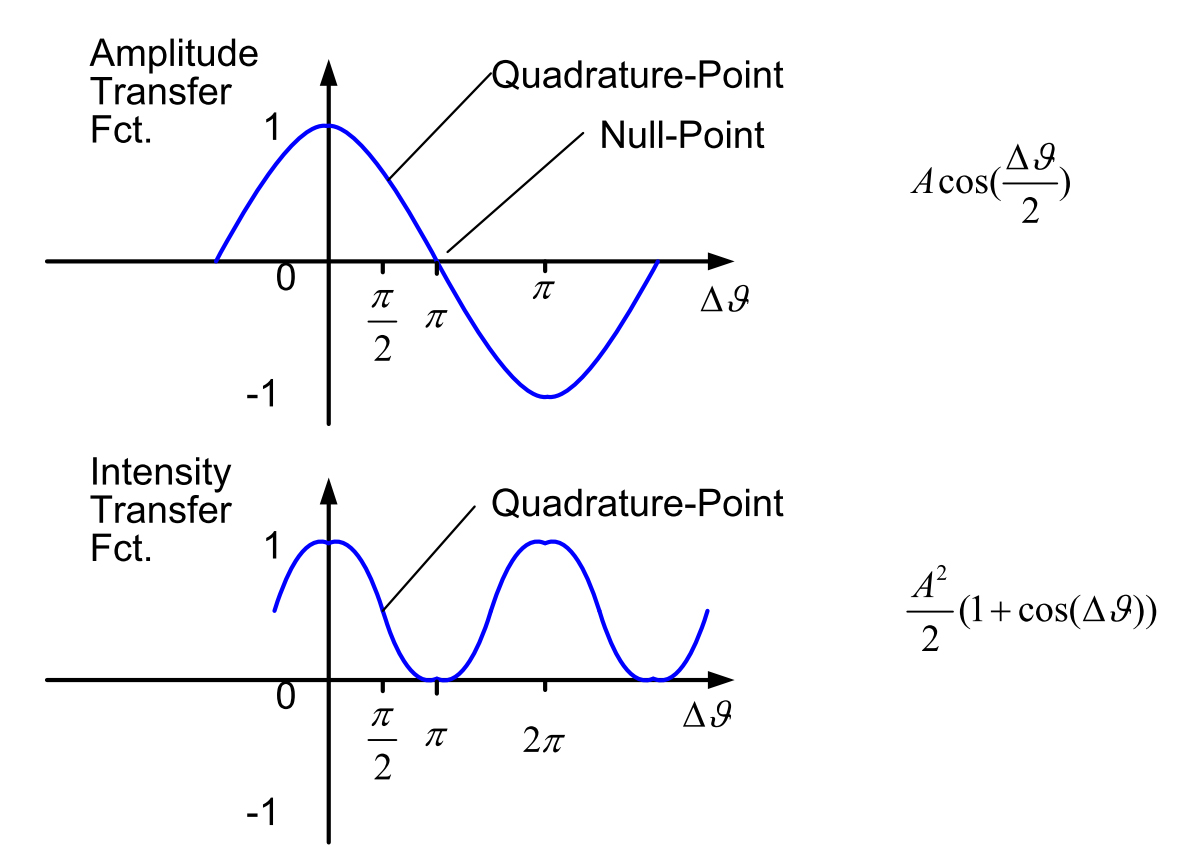
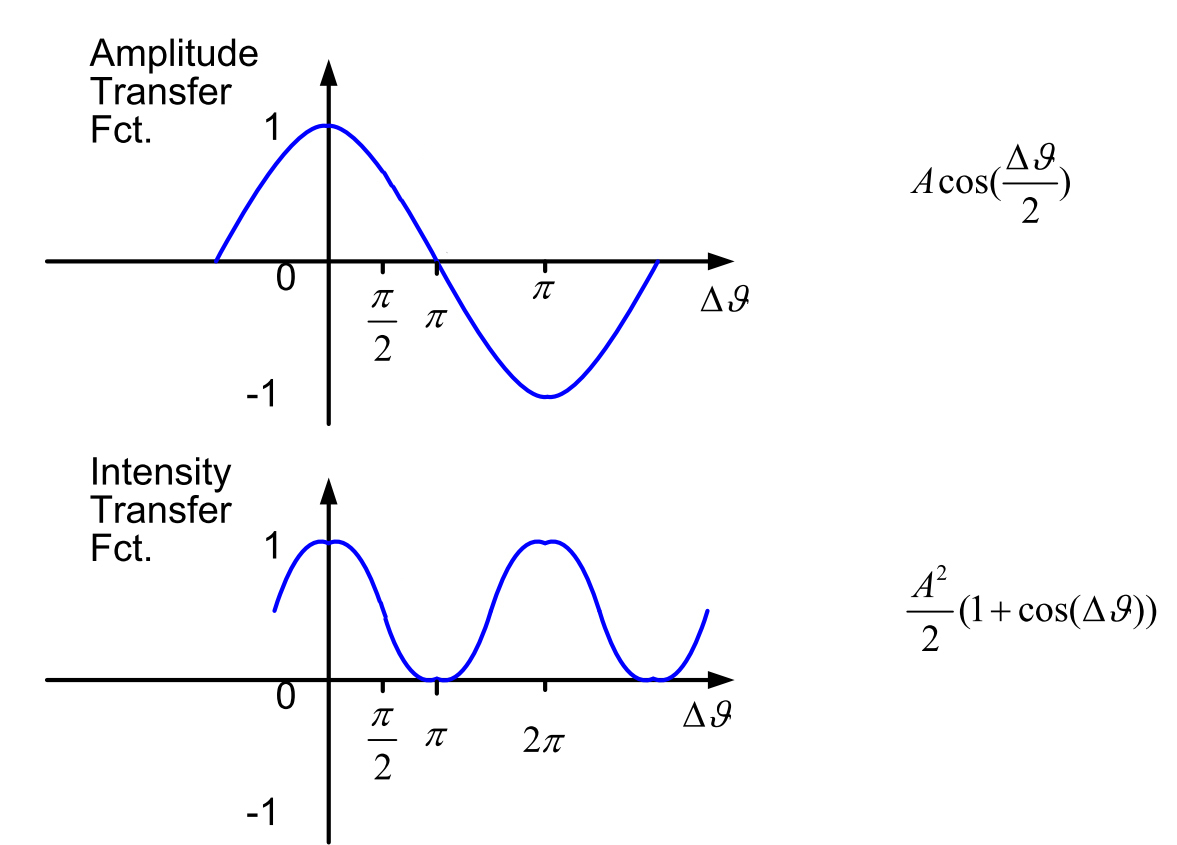
rz und so

diff --git a/OKT/Versuch 7/Ausarbeitung/content.tex b/OKT/Versuch 7/Ausarbeitung/content.tex
@@ -11,7 +11,7 @@ In a Mach-Zehnder Modulator (MZM) the light is split up in two branches. In each
 \begin{equation}
  E_{\mathrm{out}}=\exp\left(j\frac{\vartheta_1+\vartheta_2}{2}+j\frac{\vartheta_{\mathrm{Bias}}}{2} \right)\cdot\cos\left(\frac{\vartheta_1-\vartheta_2}{2}+\frac{\vartheta_{\mathrm{Bias}}}{2}\right)\cdot E_{\mathrm{in}} .
 \end{equation}
-The phase shift of the Signal at the output of the modulator is described by the first term, the amplitude by the second term. For the phase Modulation $\vartheta_1 = \vartheta_2$ only the phase of the Signal is changed while the Amplitude stays constant. This operation mode is called "`push-push"' mode. For $\vartheta_1 = -\vartheta_2$ only the Amplitude of the Signal is modulated. This operation mode is called "`push-pull"' mode. \todo{Null-point vs. quadrature point / alternativ die beschriftung aus der grafik entfernen} \footnote[1]{Leuthold, J. : Optical Communication Systems. WS 2010/2011}
+The phase shift of the Signal at the output of the modulator is described by the first term, the amplitude by the second term. For the phase Modulation $\vartheta_1 = \vartheta_2$ only the phase of the Signal is changed while the Amplitude stays constant. This operation mode is called "`push-push"' mode. For $\vartheta_1 = -\vartheta_2$ only the Amplitude of the Signal is modulated. This operation mode is called "`push-pull"' mode. \footnote[1]{Leuthold, J. : Optical Communication Systems. WS 2010/2011}
 
 
 \begin{figure}
@@ -55,4 +55,4 @@ A OOK-Signal for high-speed telecommunication systems is commonly created throug
 For the generation of a BPSK the same setup as for the OOK-Signal can be used. The MZM is also operated in the push-pull mode, but with twice the switching Voltage used for OOK modulation. \todo{noch die Bilder irgendwie} \footnotemark[1]
 
 \section{RZ Signal Generation}
-For the generation of a RZ signal, first a NRZ signal is created for example with one of the methods described above. Then another MZM is used to carve the signal into a RZ shape.
+For the generation of a RZ signal, first a NRZ signal is created for example with one of the methods described above. Then another MZM is used to carve the signal into a RZ shape. It is possible to realize different pulse widths for the RZ signal. When the MZM is driven by a sine with the 
